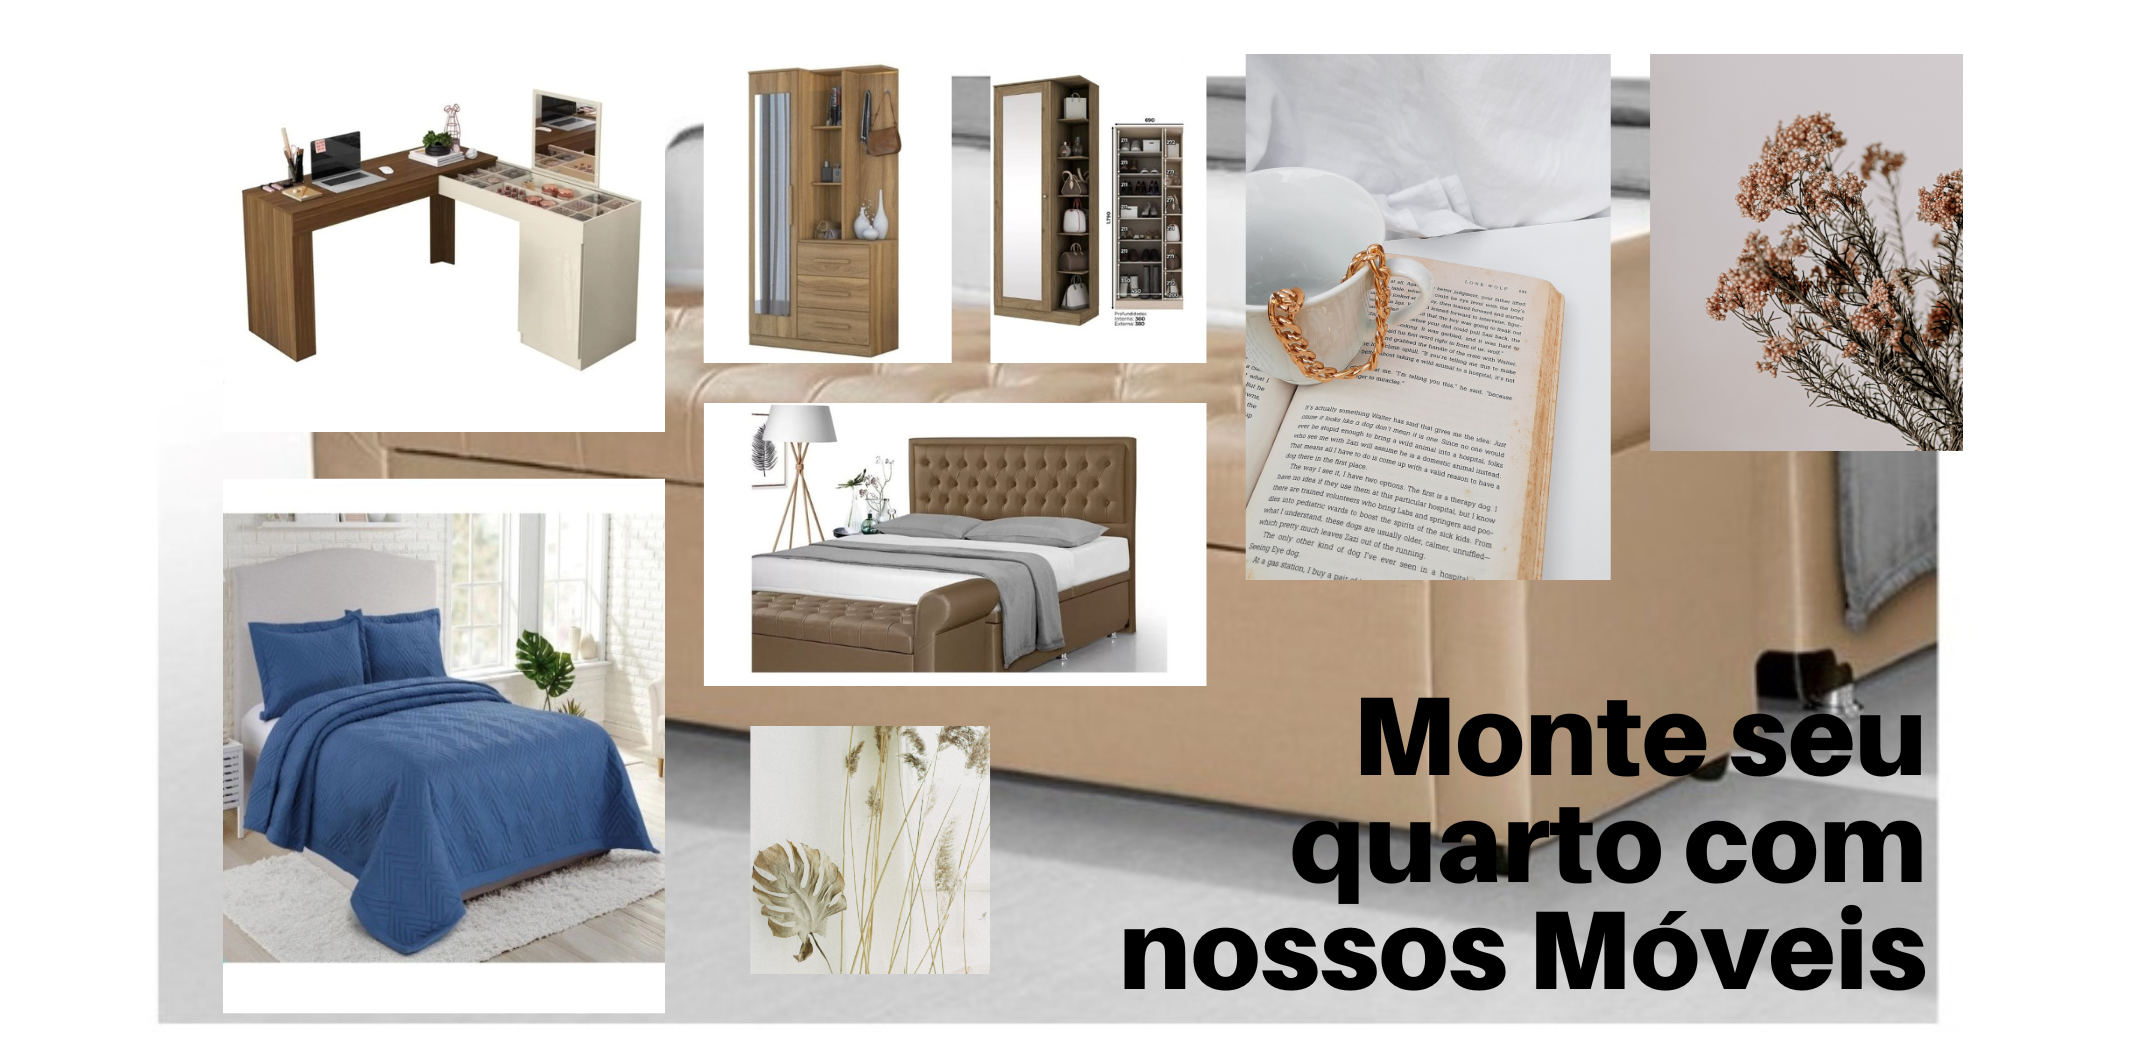
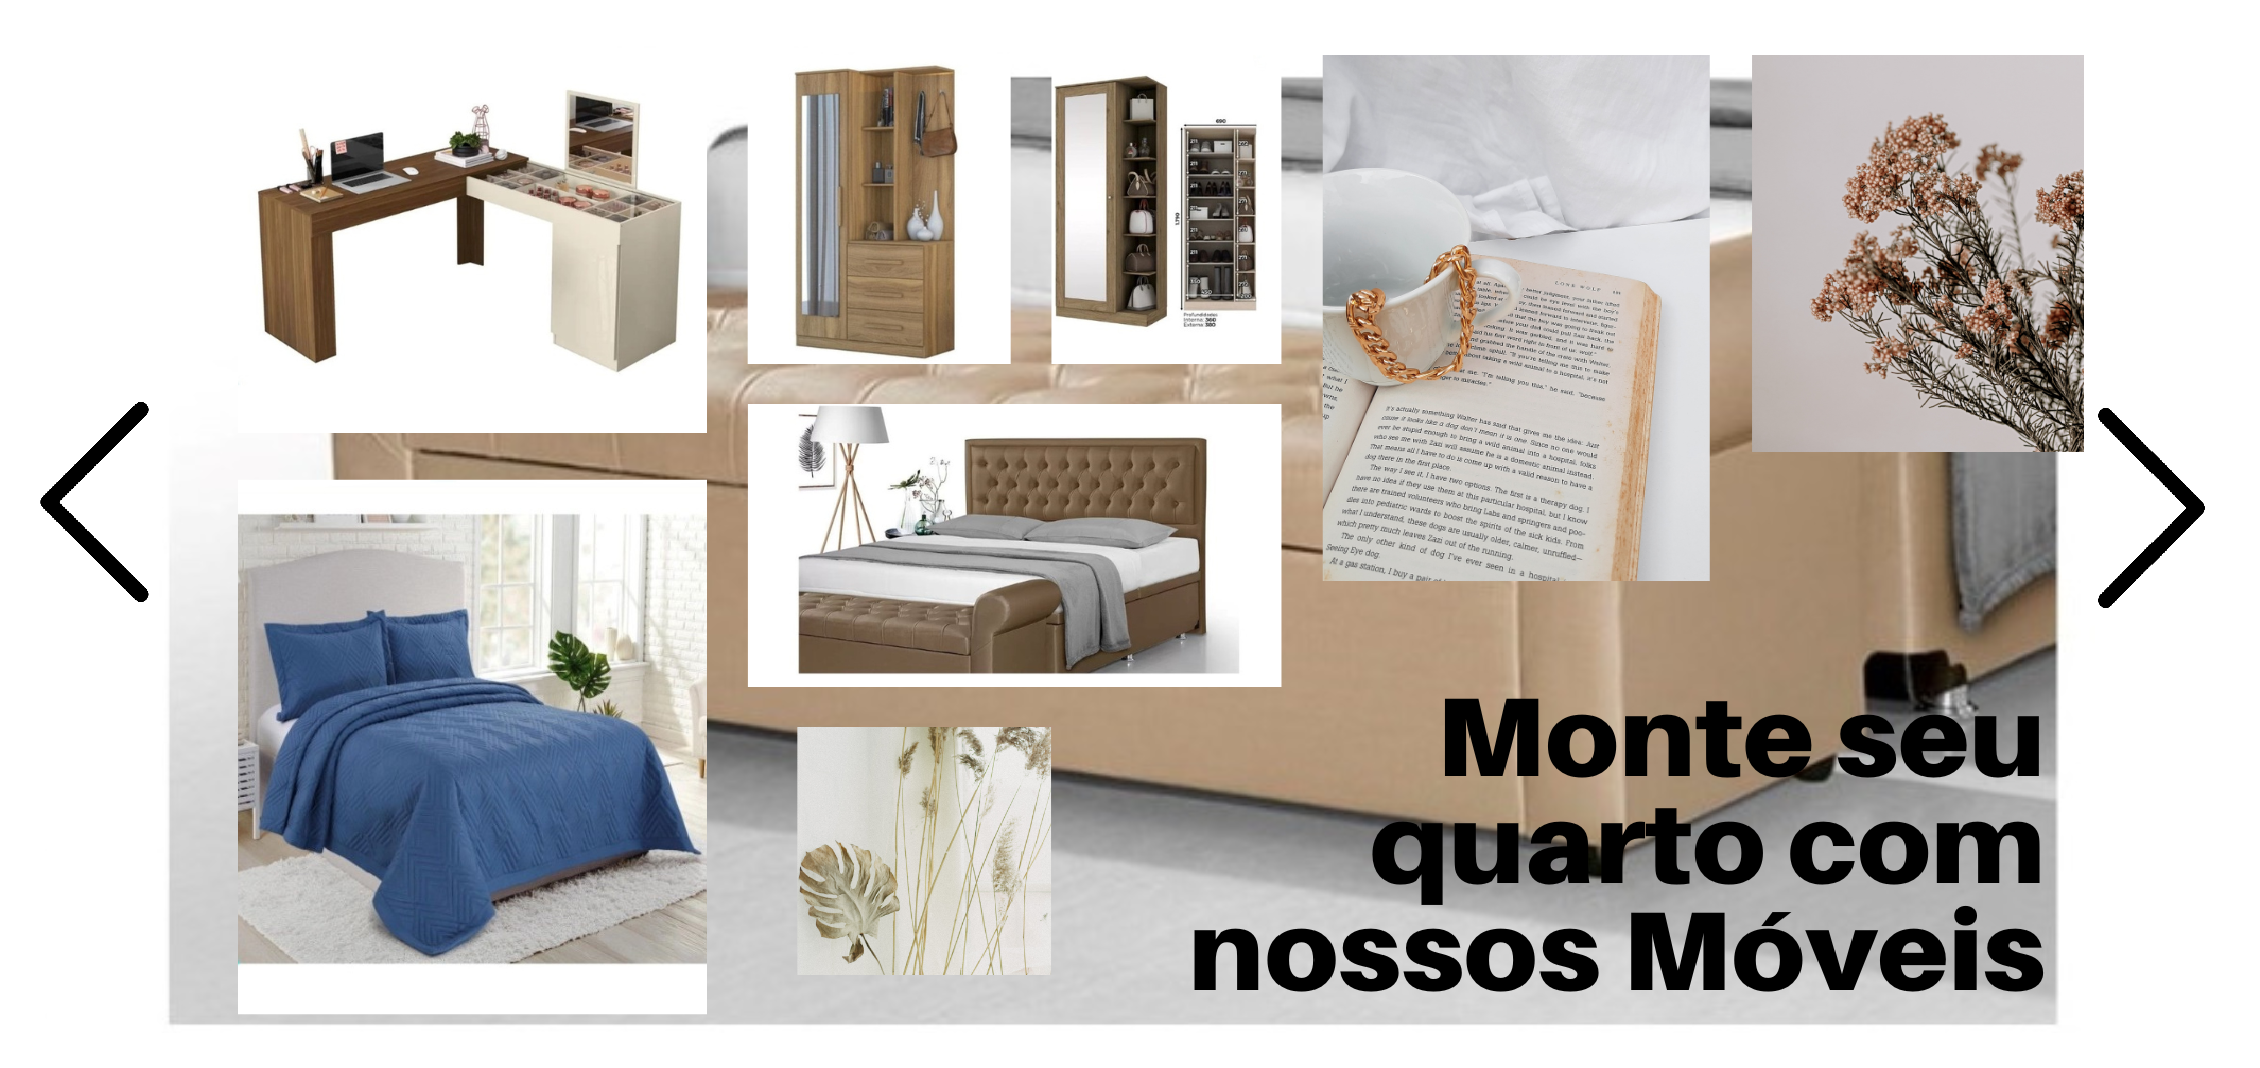
ajustes

diff --git a/index.html b/index.html
@@ -29,7 +29,7 @@
           href="https://api.whatsapp.com/message/HWNBHFYYPB42B1?autoload=1&app_absent=0"
           ><h4>→ Fale com um VENDEDOR</h4></a
         >
-        <p>Segunda a Sexta: 8:00 às 18:00 - Sábado: 8:00 ás 13:00</p>
+        <p>Segunda a Sexta: 7:00 às 18:00 - Sábado: 7:00 ás 13:00</p>
       </div>
     </div>
 
@@ -41,7 +41,7 @@
         </div>
         <div class="nav">
           <label for="img-4" class="prev"
-            ><img src="img/back.png" alt=""
+            ><img class="seta" src="img/left-arrow.png" alt=""
           /></label>
           <label for="img-2" class="next"
             ><img class="seta" src="img/next.png" alt=""
@@ -208,9 +208,16 @@
         </div>
       </div>
     </div>
-    <div class="history">nossa historia?</div>
+    <div class="history">
+      <h2>Quem somos</h2>
+      <p>
+        O Comercial Vasconcelos desde 2007 atuando como referência no mercado em
+        qualidade e atendimento para toda família. Temos colaboradores sempre a
+        disposição para atendê-los. Estamos em Macapá, Santana e Mazagão!
+      </p>
+    </div>
     <div class="launch">
-      <h2>LANÇAMENTOS</h2>
+      <h2>Confira nossas Novidades!</h2>
 
       <input type="radio" class="slide-controller" name="slide" checked />
       <input type="radio" class="slide-controller" name="slide" />
@@ -315,7 +322,7 @@
 
       <div class="end-box">
         <h4>HORÁRIO DE ATENDIMENTO</h4>
-        <p>Segunda a Sexta: 8:00 às 18:00</p>
+        <p>Segunda a Sexta: 7:00 às 18:00</p>
         <p>Sábado: 8:00 ás 13:00</p>
       </div>
       <div class="end-box">

diff --git a/css/style.css b/css/style.css
@@ -181,6 +181,8 @@ li a {
 }
 .history {
   background-color: #eeeee7;
+  padding: 10px;
+  margin: 50px 100px;
 }
 .launch {
   padding-top: 10px;
